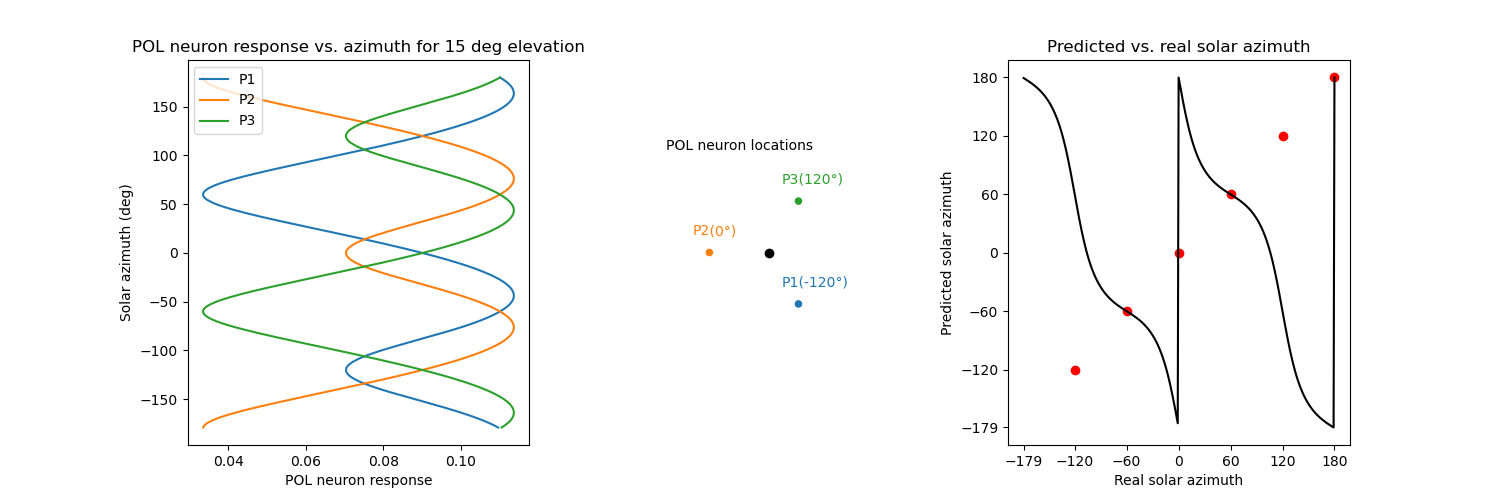
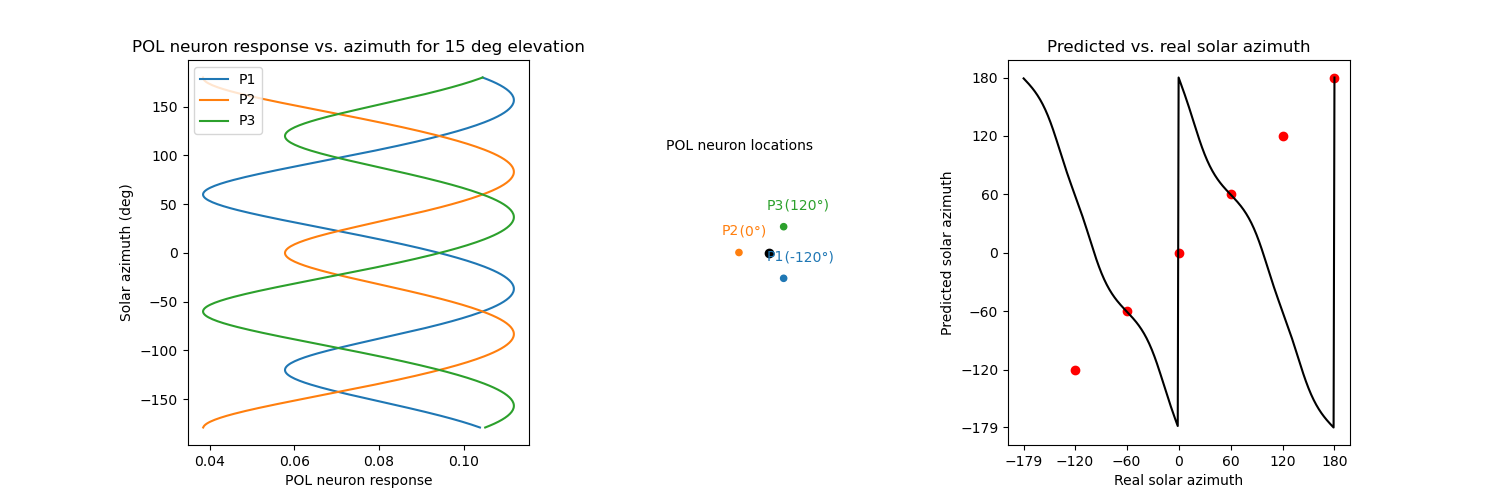
minor changes

diff --git a/examples/test_minimal_device_polarization_sensor_variation.py b/examples/test_minimal_device_polarization_sensor_variation.py
@@ -61,14 +61,8 @@ def main(POL_method,POL_method_description,fov,nb_ommatidia,omm_photoreceptor_an
     (0 degrees towards left, then positively increase clockwise towards 180 
     and negatively increase counter-clockwise up to -180.
     """
-    if nb_ommatidia == 6:
-        thetas = [-180, -120, -60, 0, 60, 120] #[-150, -90, -30, 30, 90, 150]
-    elif nb_ommatidia == 5:
-        thetas = [-144, -72, 0, 72, 144]
-    elif nb_ommatidia == 4:
-        thetas = [-180, -90, 0, 90] #[-135, -45, 45, 135]
-    elif nb_ommatidia == 3:
-        thetas = [-120, 0, 120]
+
+    thetas = [-120, 0, 120]
     thetas = [np.deg2rad(el) for el in thetas]
 
     # Create complex vectors for the POL-neurons following v=r*e^(-i*theta).
@@ -123,9 +117,9 @@ if __name__ == '__main__':
                               "double_sqrt": "sqrt(I0^2+I90^2)",
                               "double_normalized_contrast_flipped":"(I0-I90)\u00F7(I90+I0)",
                               "double_normalized_contrast": "(I90-I0)\u00F7(I90+I0)"}
-    POL_methods = ["single_0","single_90","double_sum","double_subtraction","double_subtraction_flipped","double_normalized_contrast","double_normalized_contrast_flipped"]  # choose from POL_method_description keys
-    nbs_ommatidia = [3,4,5,6]
-    fov = 60
+    POL_methods = ["double_normalized_contrast_flipped"] #["single_0","single_90","double_sum","double_subtraction","double_subtraction_flipped","double_normalized_contrast","double_normalized_contrast_flipped"]  # choose from POL_method_description keys
+    nbs_ommatidia = [3,6]
+    fov = 30
     omm_photoreceptor_angle = 2
     noises = [0]
     sun_elevations_degrees = [15,30,45,60,75]
